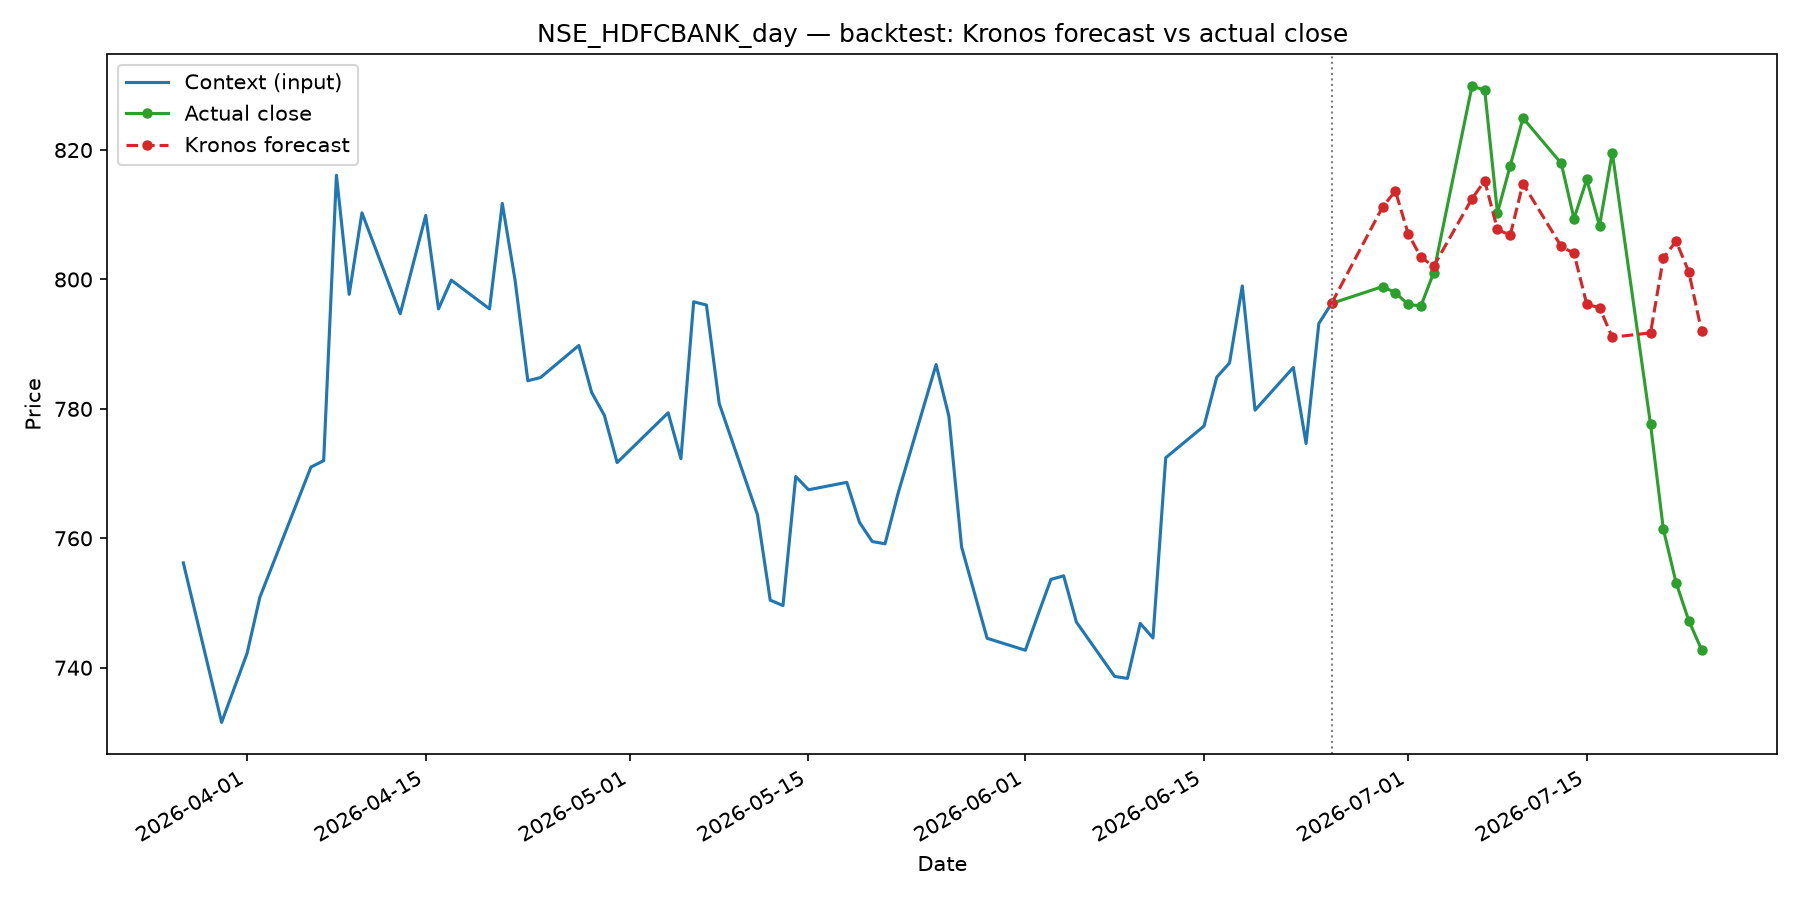
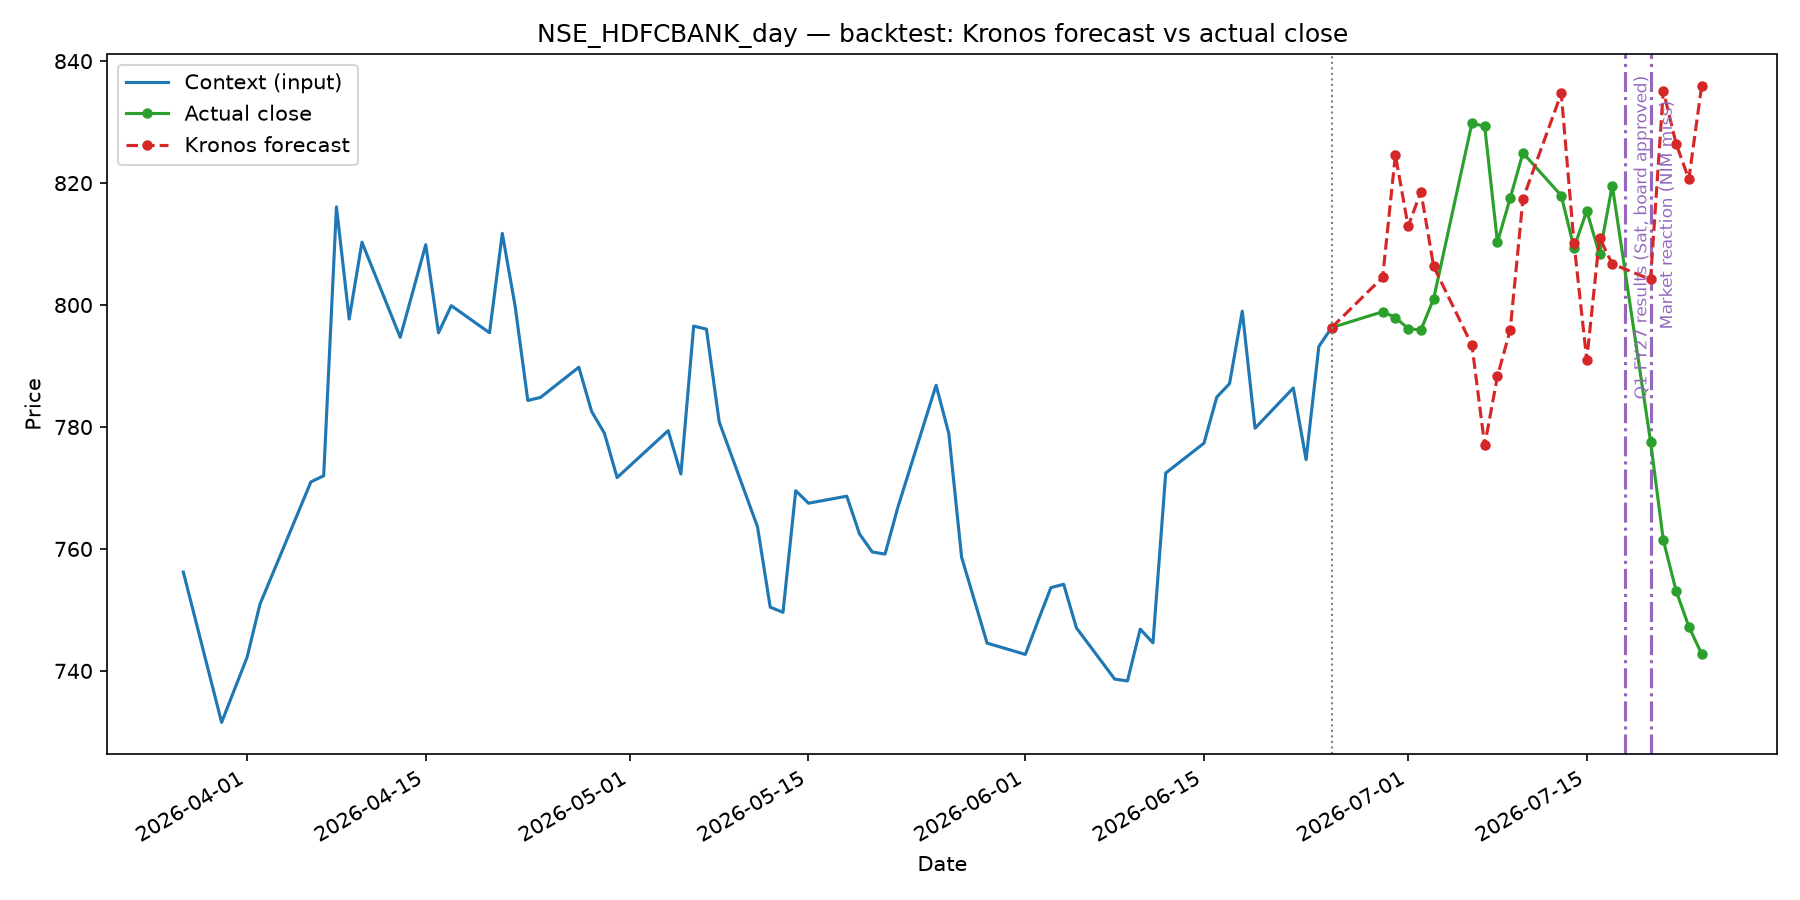
Overlay real-world events on forecast/backtest charts, link backtest miss to Q1 FY27 earnings
Adds a repeatable --event YYYY-MM-DD:label flag that draws annotated
vertical markers on both --future and --backtest charts, plus a
before/after MAE breakdown around each event when backtesting.
Re-ran the HDFCBANK backtest with HDFC Bank's actual Q1 FY27 results
date (2026-07-18, board-approved) and the following market reaction
(2026-07-20) marked: pre-earnings MAE is ~18 close-price points but
jumps to ~68 afterward, since HDFC Bank missed profit/NII estimates
on NIM compression and Kronos has no fundamentals/news input to
anticipate that kind of surprise.

diff --git a/nse/forecast.py b/nse/forecast.py
@@ -59,7 +59,31 @@ def future_business_days(last_timestamp: pd.Timestamp, pred_len: int) -> pd.Seri
     return pd.Series(dates)
 
 
-def plot_forecast(history_df, pred_df, symbol, chart_output):
+def parse_events(raw_events):
+    events = []
+    for raw in raw_events or []:
+        date_str, _, label = raw.partition(":")
+        events.append((pd.Timestamp(date_str), label or date_str))
+    return events
+
+
+def annotate_events(ax, events):
+    for i, (event_date, label) in enumerate(events):
+        ax.axvline(event_date, color="#9467bd", linestyle="-.", linewidth=1.5, zorder=0)
+        ax.annotate(
+            label,
+            xy=(event_date, 1),
+            xycoords=("data", "axes fraction"),
+            xytext=(4, -10 - 12 * (i % 3)),
+            textcoords="offset points",
+            fontsize=8,
+            color="#9467bd",
+            rotation=90,
+            va="top",
+        )
+
+
+def plot_forecast(history_df, pred_df, symbol, chart_output, events=None):
     import matplotlib
 
     matplotlib.use("Agg")
@@ -73,6 +97,8 @@ def plot_forecast(history_df, pred_df, symbol, chart_output):
     ax.plot(connector_x, connector_y, label="Kronos forecast", color="#d62728", linestyle="--", marker="o", markersize=3)
 
     ax.axvline(history_df["timestamps"].iloc[-1], color="gray", linestyle=":", linewidth=1)
+    if events:
+        annotate_events(ax, events)
     ax.set_title(f"{symbol} — close price, historical vs Kronos forecast")
     ax.set_xlabel("Date")
     ax.set_ylabel("Price")
@@ -93,7 +119,7 @@ def compute_metrics(actual_df, pred_df, column="close"):
     return {"MAE": mae, "RMSE": rmse, "MAPE_pct": mape}
 
 
-def plot_backtest(context_df, actual_df, pred_df, symbol, chart_output):
+def plot_backtest(context_df, actual_df, pred_df, symbol, chart_output, events=None):
     import matplotlib
 
     matplotlib.use("Agg")
@@ -112,6 +138,8 @@ def plot_backtest(context_df, actual_df, pred_df, symbol, chart_output):
     ax.plot(pred_connector_x, pred_connector_y, label="Kronos forecast", color="#d62728", linestyle="--", marker="o", markersize=4)
 
     ax.axvline(context_df["timestamps"].iloc[-1], color="gray", linestyle=":", linewidth=1)
+    if events:
+        annotate_events(ax, events)
     ax.set_title(f"{symbol} — backtest: Kronos forecast vs actual close")
     ax.set_xlabel("Date")
     ax.set_ylabel("Price")
@@ -144,7 +172,14 @@ def main():
         "lookback candles before them, and score the forecast against what actually "
         "happened, instead of forecasting real future dates (the default)",
     )
+    parser.add_argument(
+        "--event",
+        action="append",
+        help="mark a real-world event (e.g. an earnings date) on the chart as "
+        "YYYY-MM-DD:label; repeatable",
+    )
     args = parser.parse_args()
+    events = parse_events(args.event)
 
     if not args.csv and not args.symbol:
         parser.error("either --csv or --symbol is required")
@@ -217,12 +252,22 @@ def main():
             f"MAE={metrics['MAE']:.2f}  RMSE={metrics['RMSE']:.2f}  MAPE={metrics['MAPE_pct']:.2f}%"
         )
 
+        for event_date, label in events:
+            before = comparison[comparison.index < event_date]
+            after = comparison[comparison.index >= event_date]
+            if len(before) and len(after):
+                print(
+                    f"\nAround event '{label}' ({event_date.date()}): "
+                    f"MAE before={before['error'].abs().mean():.2f} ({len(before)} sessions), "
+                    f"MAE after={after['error'].abs().mean():.2f} ({len(after)} sessions)"
+                )
+
         if args.output:
             comparison.to_csv(args.output)
             print(f"\nWrote backtest comparison to {args.output}")
 
         if args.chart_output:
-            plot_backtest(context_df, actual_df, pred_df, symbol, args.chart_output)
+            plot_backtest(context_df, actual_df, pred_df, symbol, args.chart_output, events=events)
             print(f"Wrote chart to {args.chart_output}")
     else:
         if args.output:
@@ -230,7 +275,7 @@ def main():
             print(f"\nWrote forecast to {args.output}")
 
         if args.chart_output:
-            plot_forecast(history_df, pred_df, symbol, args.chart_output)
+            plot_forecast(history_df, pred_df, symbol, args.chart_output, events=events)
             print(f"Wrote chart to {args.chart_output}")
 
 

diff --git a/README.md b/README.md
@@ -41,6 +41,24 @@ Local CSV (columns: `timestamps, open, high, low, close, volume[, amount]`):
 python -m nse.forecast --csv data/NSE_HDFCBANK_day.csv --lookback 400 --pred-len 20
 ```
 
+Backtest against the most recent known candles (holds out the last `--pred-len`
+candles, forecasts them from the `--lookback` candles before them, and reports
+MAE/RMSE/MAPE on close), optionally annotating real-world events on the chart:
+
+```shell
+python -m nse.forecast --csv data/NSE_HDFCBANK_day.csv --lookback 400 --pred-len 20 \
+    --backtest --event "2026-07-18:Q1 FY27 results" --event "2026-07-20:NIM miss reaction" \
+    --output data/NSE_HDFCBANK_backtest.csv --chart-output data/NSE_HDFCBANK_backtest.png
+```
+
+`data/NSE_HDFCBANK_backtest.png` shows Kronos tracking the pre-earnings drift
+reasonably (MAE ≈18 close-price points) but missing the post-results selloff
+after HDFC Bank's Q1 FY27 results (announced 2026-07-18, market reaction
+2026-07-20 on NIM compression and a profit/NII miss vs street estimates) —
+error on those sessions roughly quadruples. Kronos is a pure price-based
+model with no fundamentals/news input, so it has no way to anticipate
+discrete earnings surprises.
+
 ## Notes
 
 Model weights (`NeoQuasar/Kronos-small`, `NeoQuasar/Kronos-Tokenizer-base`) are
